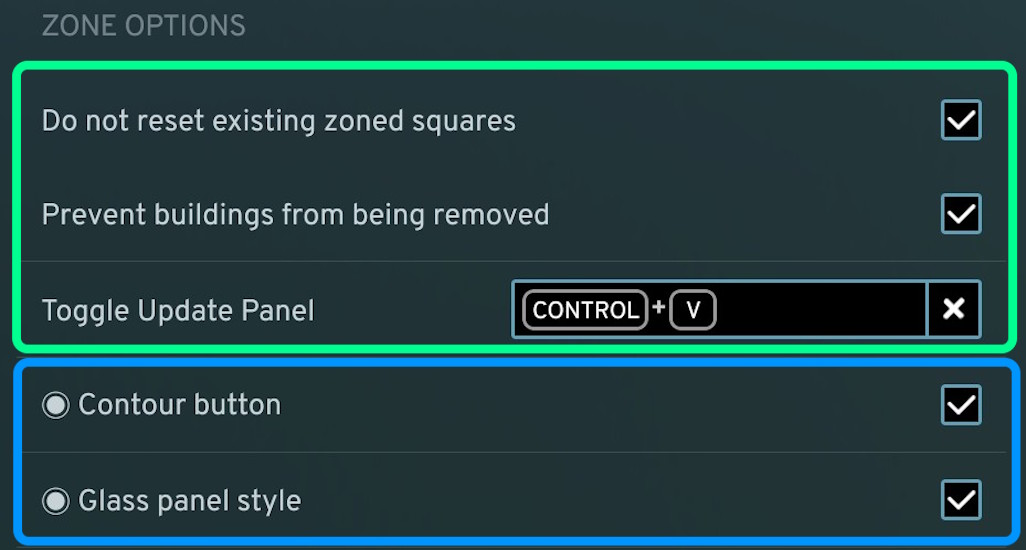
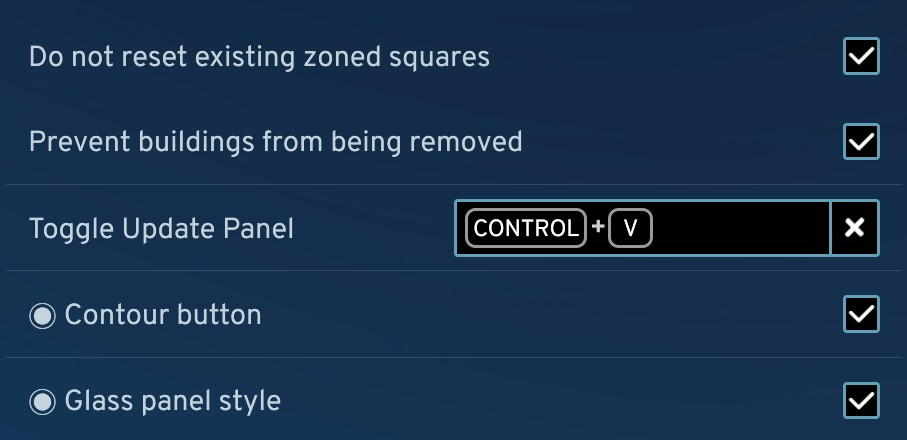
add bullet symbols

diff --git a/src/Localization/LocaleEN.cs b/src/Localization/LocaleEN.cs
@@ -50,12 +50,12 @@ namespace EasyZoning
                 { m_Settings.GetOptionGroupLocaleID(Setting.kAboutLinksGroup), "" },
 
                 // Zone options
-                { m_Settings.GetOptionLabelLocaleID(nameof(Setting.RemoveZonedCells)), "Do not reset existing zoned squares" },
+                { m_Settings.GetOptionLabelLocaleID(nameof(Setting.RemoveZonedCells)), "● Do not reset existing zoned squares" },
                 { m_Settings.GetOptionDescLocaleID(nameof(Setting.RemoveZonedCells)),
                     "Do not reset already zoned cells during preview/apply.\n\n" +
                     "**[ ✓ ] Enabled recommended.**" },
 
-                { m_Settings.GetOptionLabelLocaleID(nameof(Setting.RemoveOccupiedCells)), "Prevent buildings from being removed" },
+                { m_Settings.GetOptionLabelLocaleID(nameof(Setting.RemoveOccupiedCells)), "● Prevent buildings from being removed" },
                 { m_Settings.GetOptionDescLocaleID(nameof(Setting.RemoveOccupiedCells)),
                     "**Buildings = occupied cells**. Prevents preview/apply of new zones from turning existing buildings into condemned.\n\n" +
                     "**[ ✓ ] Enabled recommended.**" },
